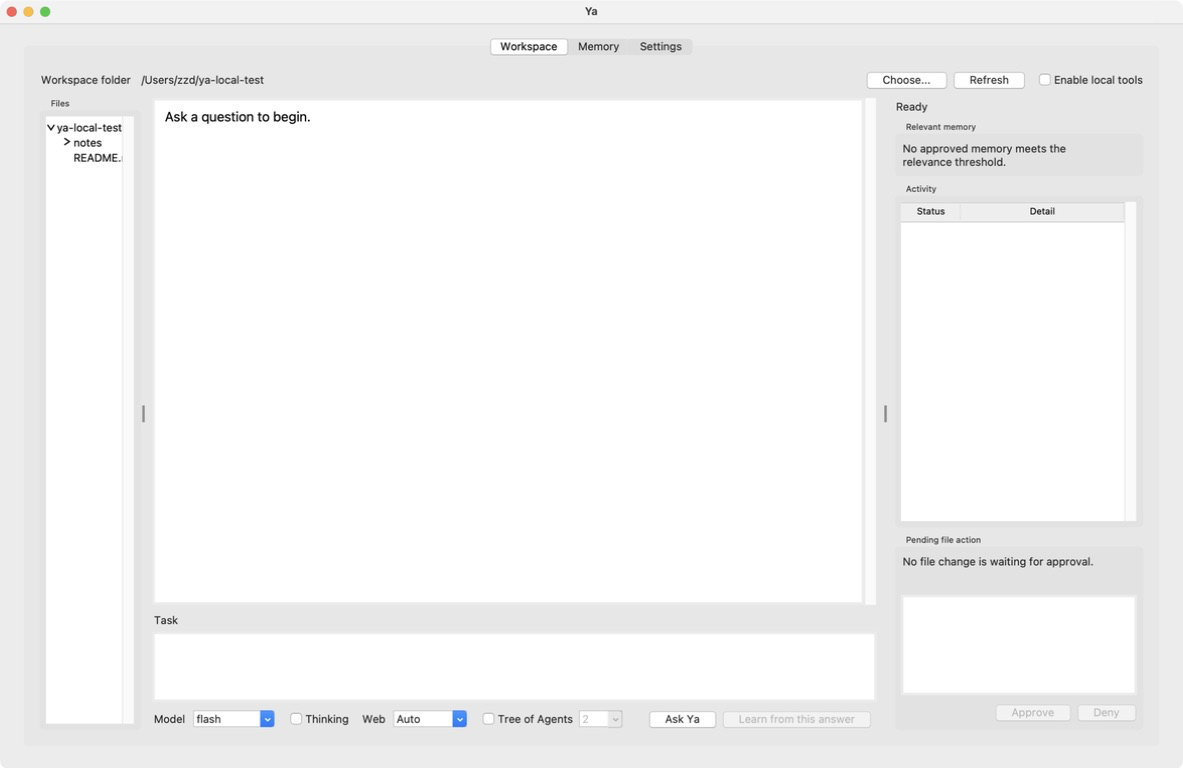
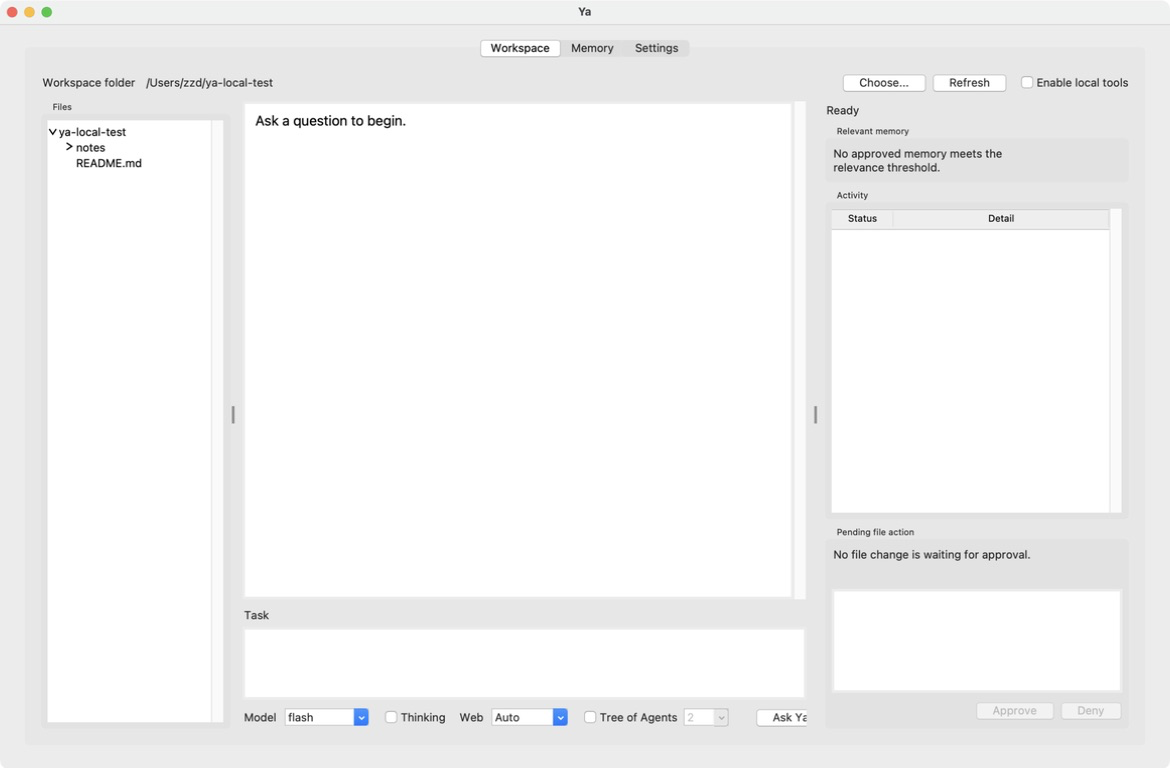
Refine first-run workspace layout

diff --git a/ya/gui.py b/ya/gui.py
@@ -101,6 +101,13 @@ TEXT = {
 }
 
 
+def initial_window_geometry(screen_width: int, screen_height: int) -> tuple[int, int, int, int]:
+    """Choose a spacious, centered first-run workbench without exceeding a display."""
+    width = max(1020, min(1900, round(screen_width * 0.92)))
+    height = max(680, min(1180, round(screen_height * 0.90)))
+    return width, height, max(0, (screen_width - width) // 2), max(0, (screen_height - height) // 2)
+
+
 @dataclass
 class LocalActionRequest:
     action: LocalAction
@@ -127,6 +134,7 @@ class YaApp(ttk.Frame):
         self.activities: list[LocalActivity] = []
         self.active_task: SessionTask | None = None
         self.pending_action: LocalActionRequest | None = None
+        self._initial_sashes_applied = False
         self._link_urls: dict[str, str] = {}
         self._set_vars()
         self._build()
@@ -171,6 +179,8 @@ class YaApp(ttk.Frame):
     def _build(self) -> None:
         self.root.title(self.t("title"))
         self.root.minsize(1020, 680)
+        width, height, x, y = initial_window_geometry(self.root.winfo_screenwidth(), self.root.winfo_screenheight())
+        self.root.geometry(f"{width}x{height}+{x}+{y}")
         self.root.columnconfigure(0, weight=1)
         self.root.rowconfigure(0, weight=1)
         self._build_menu()
@@ -185,6 +195,7 @@ class YaApp(ttk.Frame):
         self._build_workspace()
         self._build_memory()
         self._build_settings()
+        self.root.after(100, self._set_initial_workbench_sashes)
 
     def _build_menu(self) -> None:
         menu = tk.Menu(self.root)
@@ -219,6 +230,20 @@ class YaApp(ttk.Frame):
         self._build_file_panel(files)
         self._build_task_panel(center)
         self._build_context_panel(right)
+
+    def _set_initial_workbench_sashes(self) -> None:
+        """Use the workbench proportions once; later user drags remain authoritative."""
+        if self._initial_sashes_applied:
+            return
+        width = self.workbench.winfo_width()
+        if width < 900:
+            self.root.after(60, self._set_initial_workbench_sashes)
+            return
+        left = max(220, min(300, round(width * 0.14)))
+        right_start = max(left + 620, min(width - 330, round(width * 0.71)))
+        self.workbench.sashpos(0, left)
+        self.workbench.sashpos(1, right_start)
+        self._initial_sashes_applied = True
 
     def _build_file_panel(self, panel: ttk.Labelframe) -> None:
         panel.columnconfigure(0, weight=1)

diff --git a/tests/test_gui_controller.py b/tests/test_gui_controller.py
@@ -8,7 +8,7 @@ from unittest.mock import patch
 
 from ya import __version__
 from ya.config import ModelConfig, load_config
-from ya.gui import TEXT, YaApp
+from ya.gui import TEXT, YaApp, initial_window_geometry
 from ya.gui_controller import GuiController, GuiTaskOptions, load_preferences
 from ya.memory import create_candidate, set_status
 from ya.local import LocalAction
@@ -159,6 +159,10 @@ class GuiControllerTests(unittest.TestCase):
     def test_workspace_is_the_only_primary_gui_page_label(self):
         self.assertEqual(TEXT["en"]["workspace"], "Workspace")
         self.assertNotIn("ask", TEXT["en"])
+
+    def test_initial_workbench_geometry_is_spacious_and_centered(self):
+        self.assertEqual(initial_window_geometry(2048, 1280), (1884, 1152, 82, 64))
+        self.assertEqual(initial_window_geometry(1280, 800), (1178, 720, 51, 40))
 
     def test_memory_actions_and_relevant_cards(self):
         controller = GuiController()

diff --git a/ya/__init__.py b/ya/__init__.py
@@ -1,3 +1,3 @@
 """Ya: a personal research agent with CLI and native desktop GUI."""
 
-__version__ = "0.5.1"
+__version__ = "0.5.2"

diff --git a/.github/release-notes.md b/.github/release-notes.md
@@ -1,3 +1,15 @@
+## First-run workbench layout
+
+- The first GUI launch now opens a centered, display-relative workspace window
+  with a roomier three-column split: files, task timeline, and activity. The
+  initial sash positions are applied only once, so later manual adjustments are
+  never reset.
+
+### 中文说明
+
+- GUI 首次启动时会以居中的屏幕相对尺寸打开，并采用更宽松的三栏比例：文件、任务时间线和活动区。初始分栏位置
+  只会设置一次，用户之后手动拖动的布局不会被重置。
+
 ## GUI streaming preference
 
 - **Stream simple answers** has moved from the workspace task bar to Settings.

diff --git a/README.md b/README.md
@@ -257,6 +257,8 @@ application session. Simple requests stream into the rendered task timeline;
 web research, ToA, and local workspace tasks remain buffered so their tool and
 confirmation steps stay reliable. Choose **Stream simple answers** in
 **Settings** to keep or disable streaming; Ya saves that GUI preference locally.
+On first launch, the workbench opens centered at a spacious display-relative
+size with dedicated file, task, and activity columns; all panes remain draggable.
 
 ![Ya workspace workbench in English](assets/ya-gui-workspace-en.png)
 
